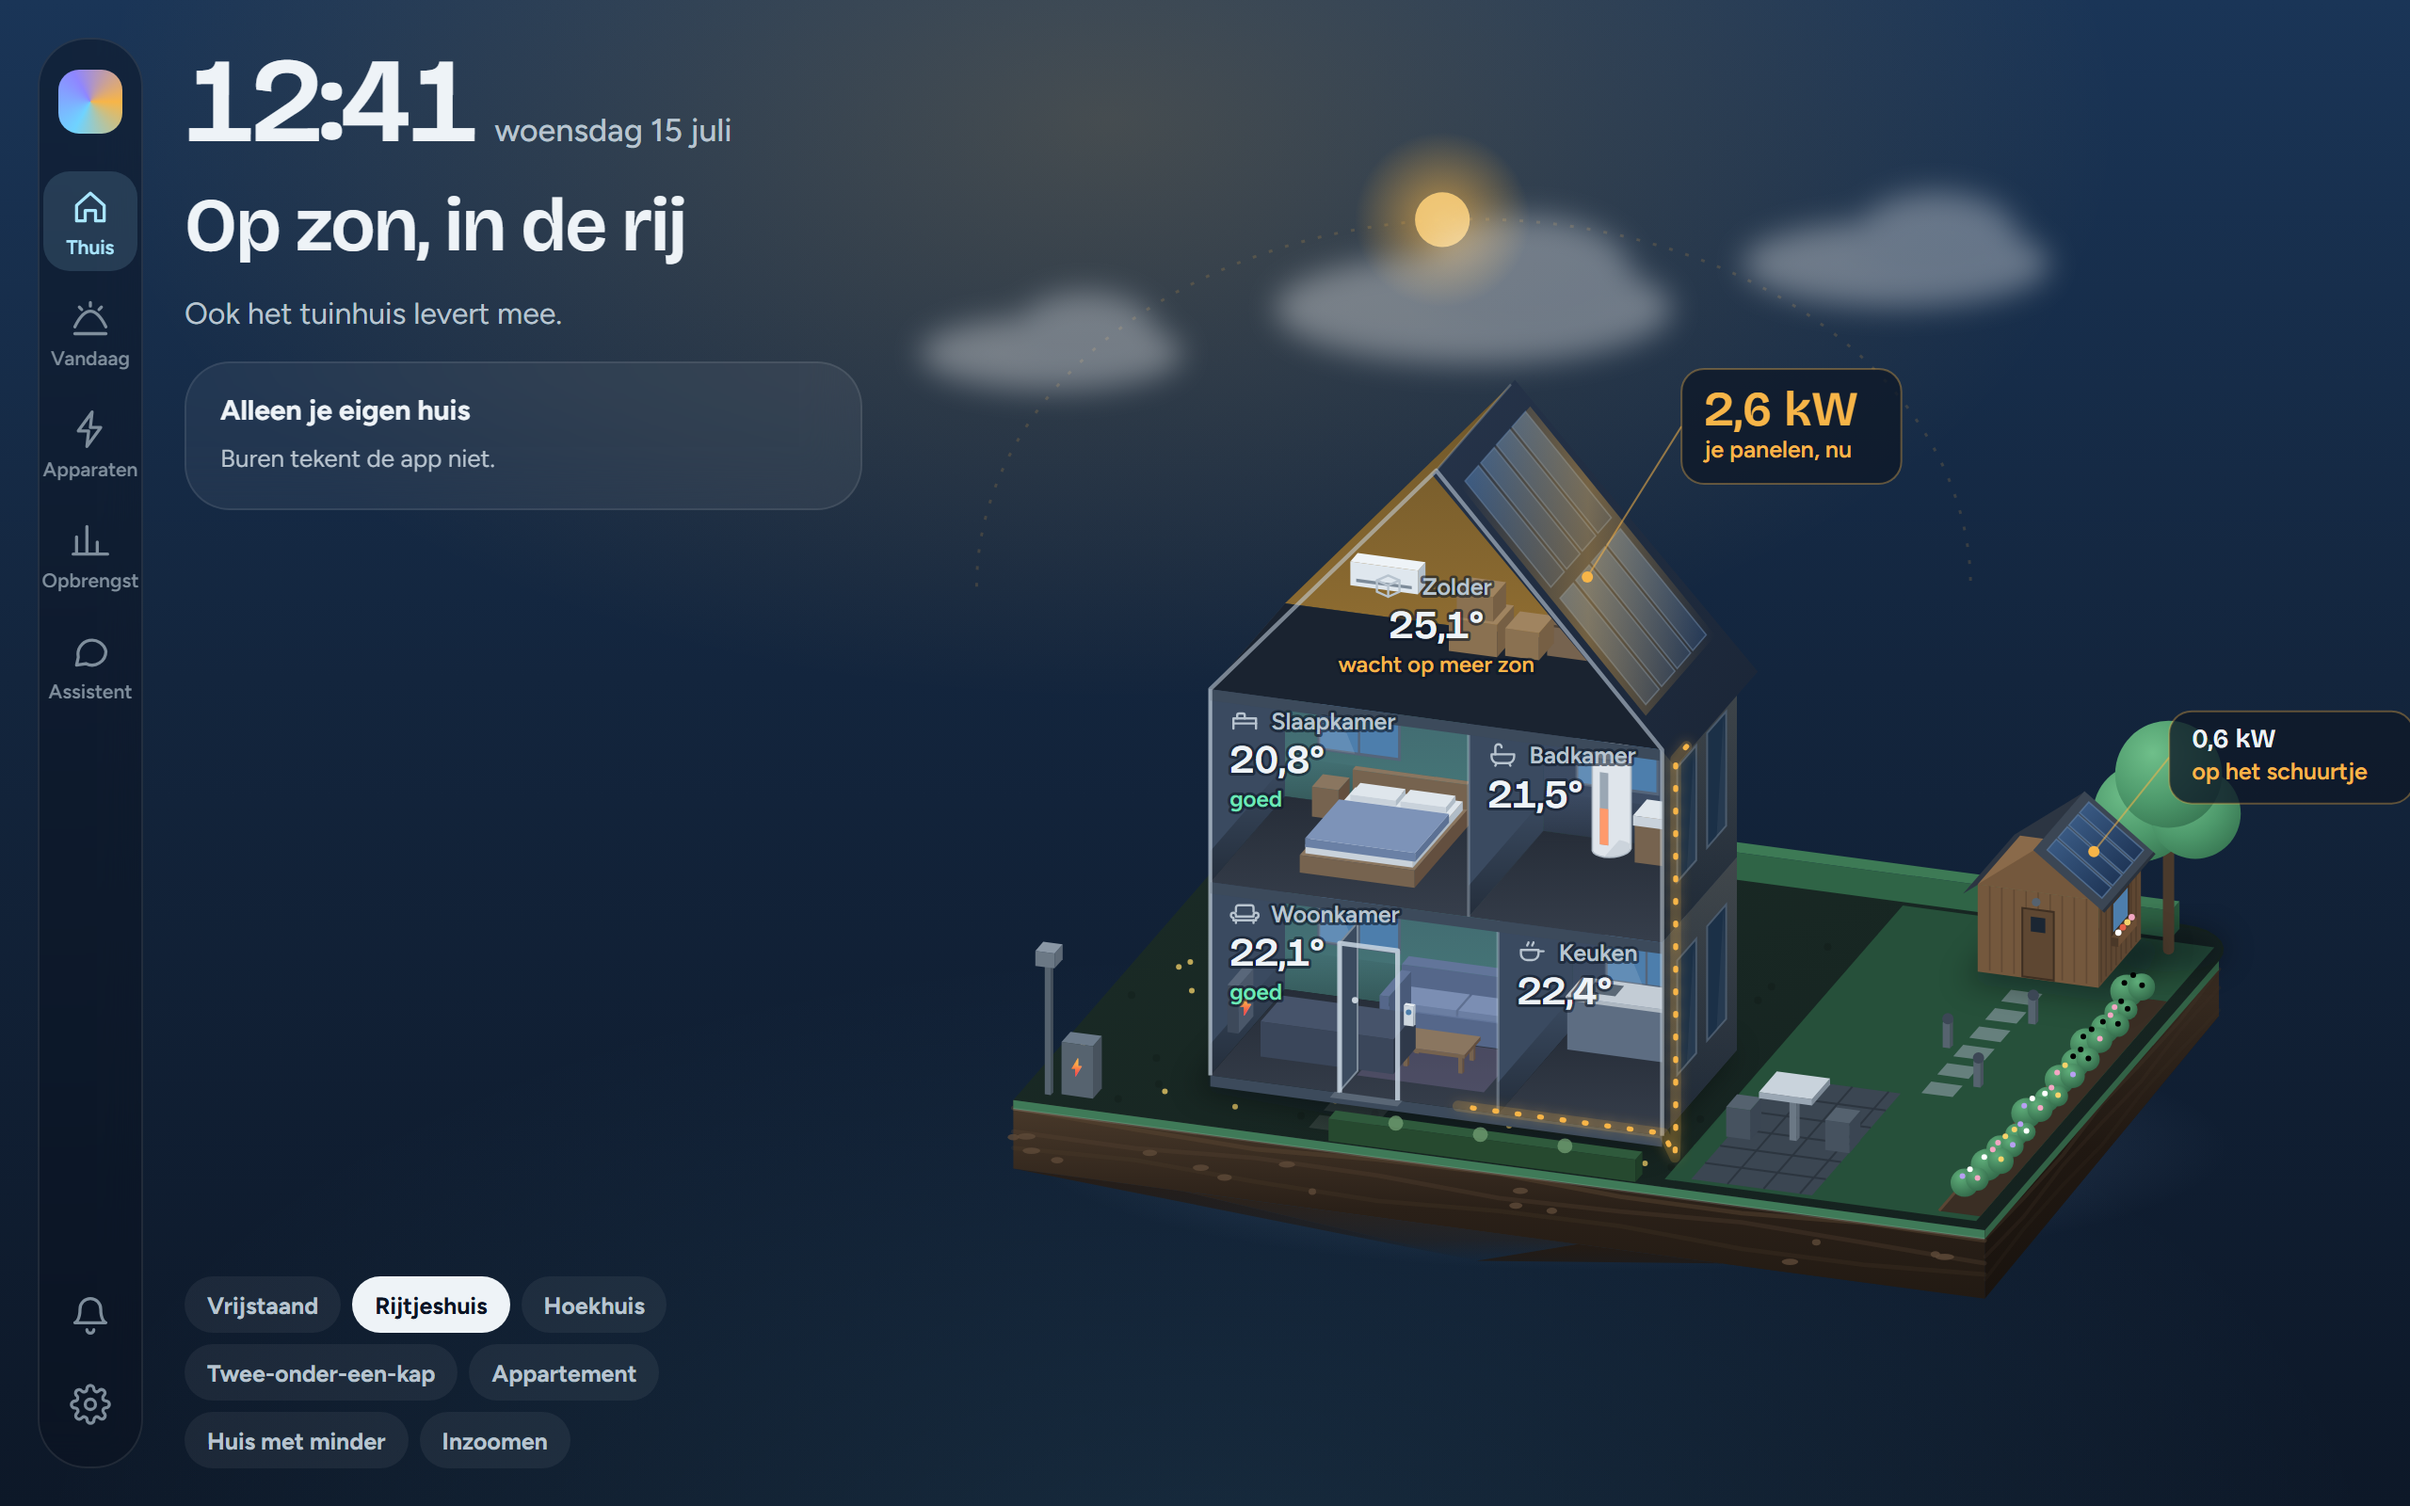
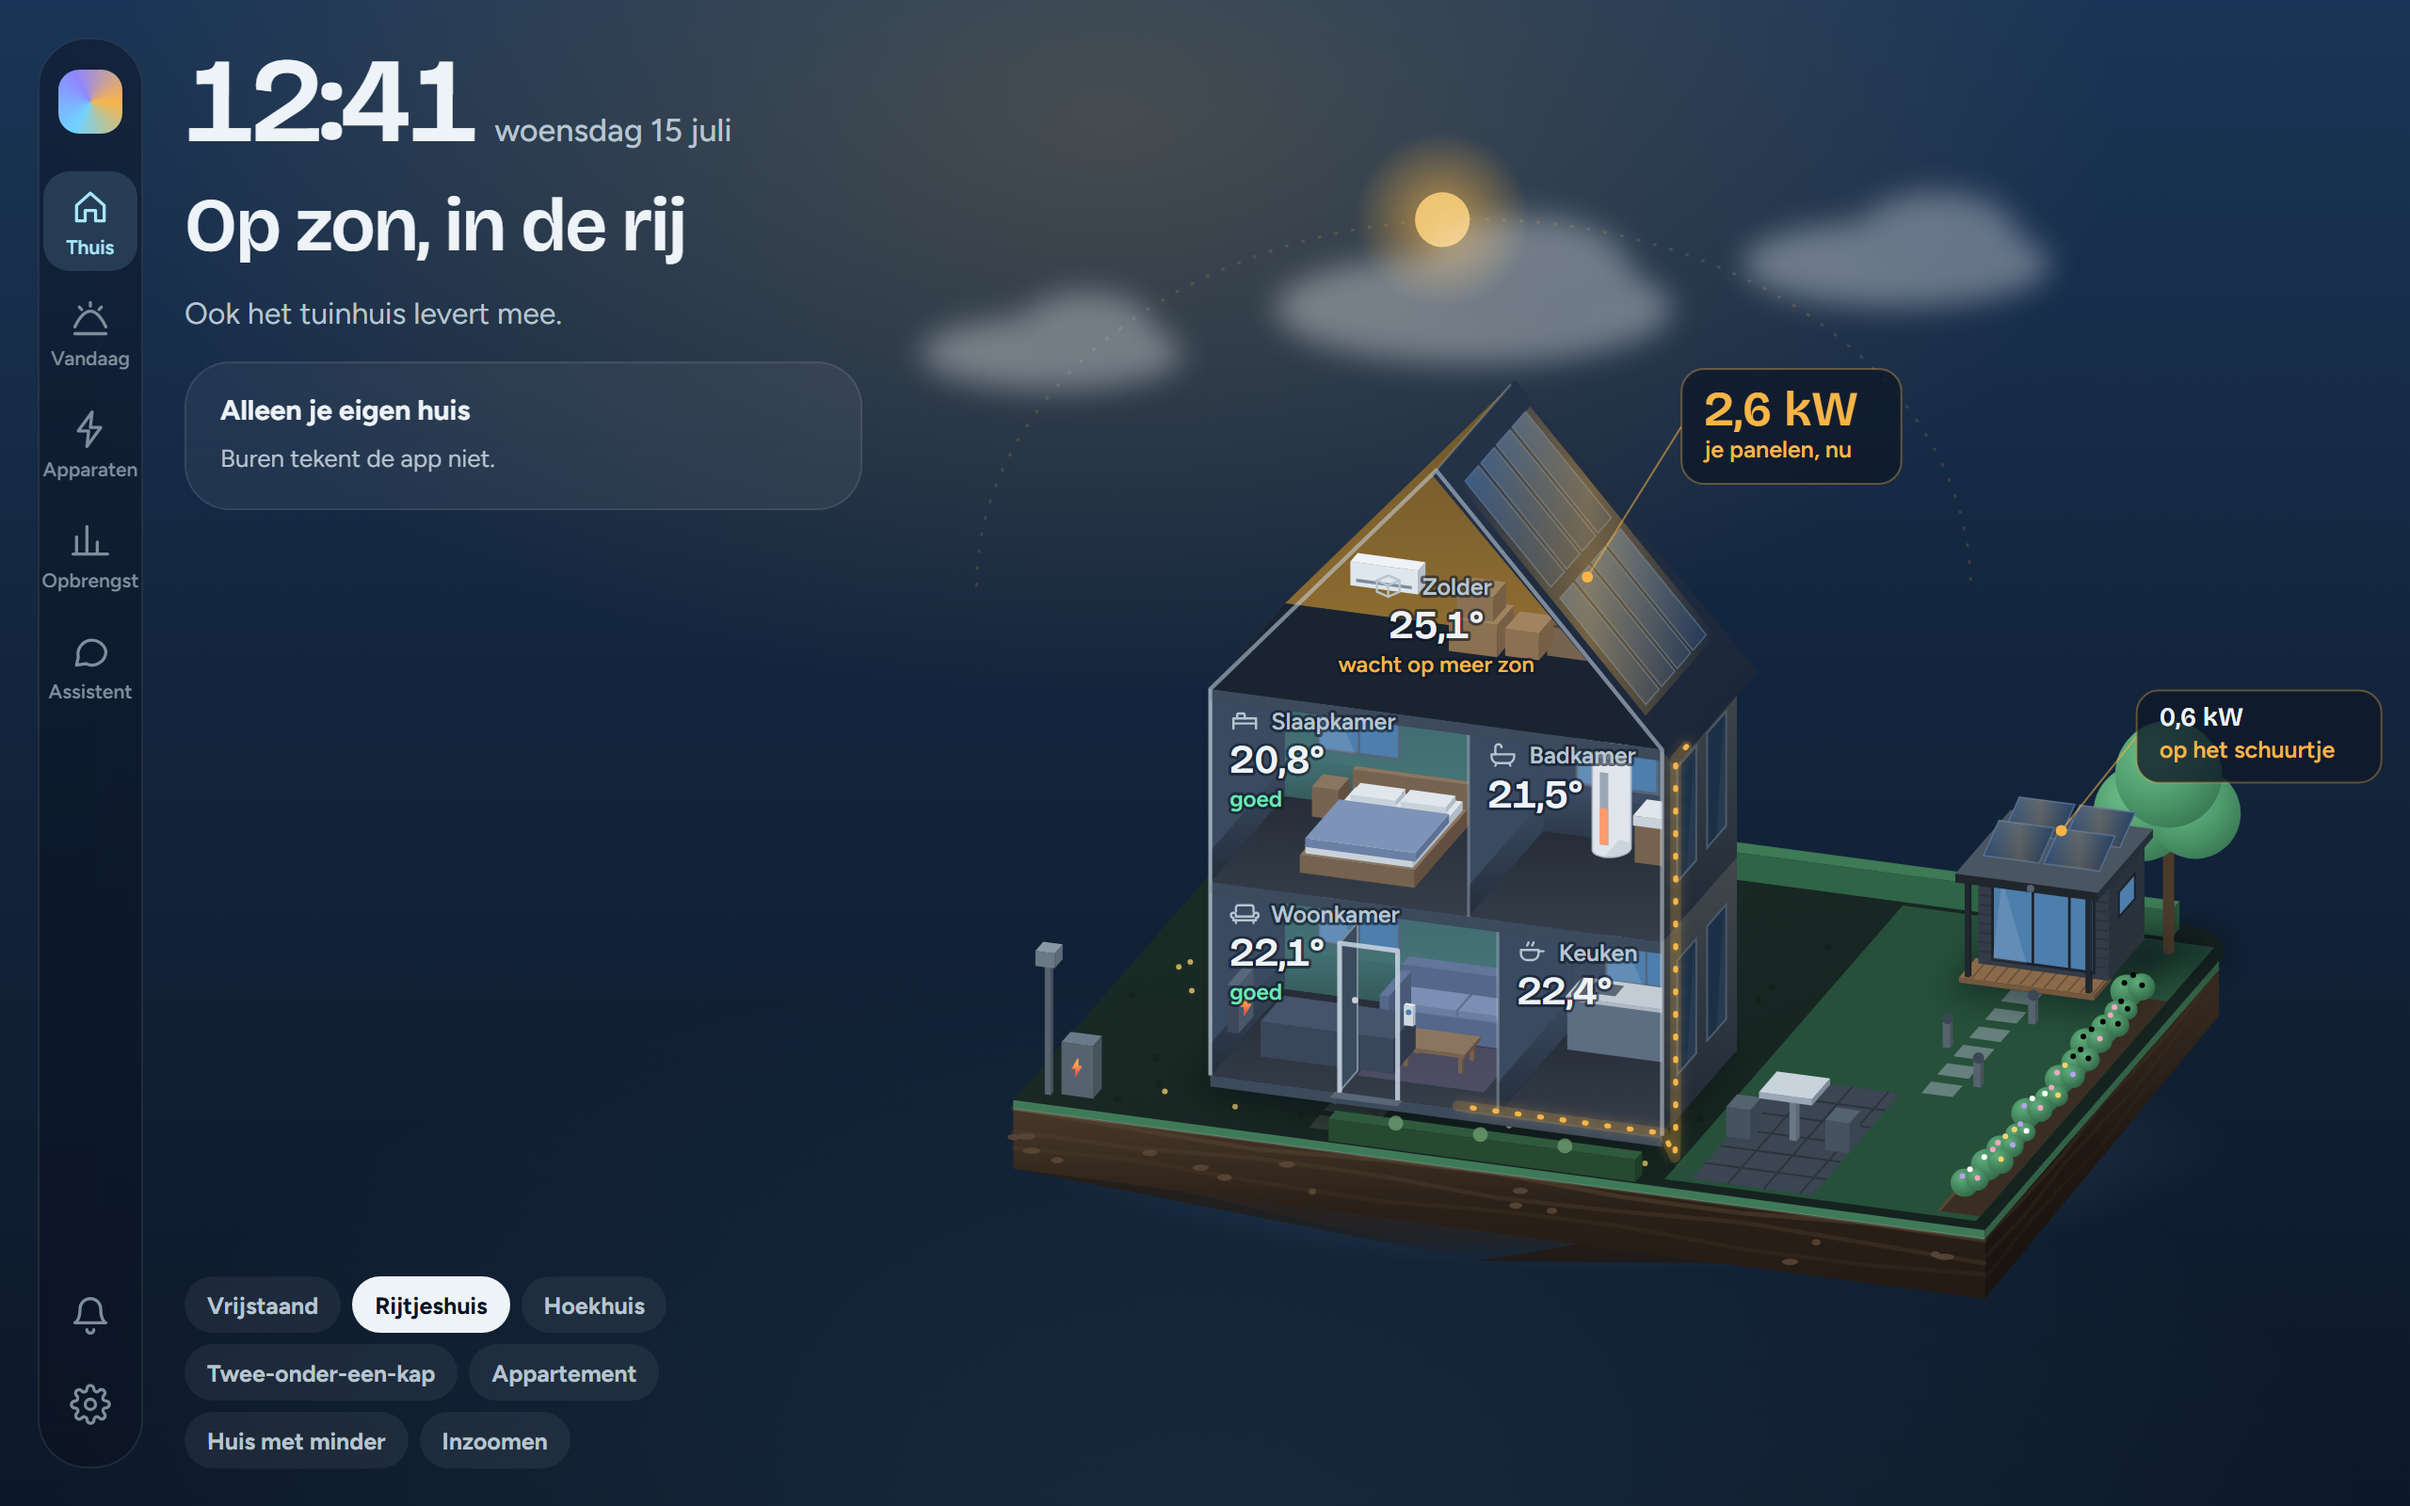
Versie 0.62.2: het tuinhuis met plat dak, overstek op twee palen, vlonder en glazen pui; een schuur, berging of shed blijft het houten schuurtje met puntdak (tuinhuisSoort uit de naam). Schetsen opnieuw gerenderd

Changed region(s): [[0.8125, 0.4688, 1.0, 0.6875]]

diff --git a/frontend/kit/huis.js b/frontend/kit/huis.js
@@ -2309,7 +2309,8 @@
         }]);
       }
       // Het tuinhuis achterin, met de deur naar het pad.
-      if (t.tuinhuis !== false) dingen.push([gy0, () => tuinhuis3(padX - 0.5, gy0 + 0.02, t)]);
+      // Een schuurtje met puntdak, of een tuinhuis met plat dak en overstek (24 oktober 2026).
+      if (t.tuinhuis !== false) dingen.push([gy0, () => (t.tuinhuisSoort === 'schuur' ? tuinhuis3(padX - 0.5, gy0 + 0.02, t) : tuinhuisPlat(padX - 0.55, gy0 + 0.02, t))]);
       dingen.sort((a, b) => a[0] - b[0]).forEach(([, teken]) => teken());
     }
     /** Een struik in de border: twee bollen, met bloemen of bladeren in het seizoen (huis 3.0). */
@@ -2334,6 +2335,61 @@
      * bloembak, en een lamp boven de deur. Panelen op het dakvlak, als die er
      * liggen.
      */
+    /**
+     * Het tuinhuis (24 oktober 2026): een strakke doos met een plat dak dat aan
+     * de voorkant uitsteekt als overstek, op twee palen, met een vlonder eronder,
+     * een glazen pui en een lamp onder het overstek. Panelen liggen op rekken op
+     * het dak. Het houten huisje met puntdak is het schuurtje (`tuinhuisSoort: 'schuur'`).
+     */
+    function tuinhuisPlat(tx, ty, t) {
+      const b = 1.08;
+      const d = 0.72;
+      const h = 0.8;
+      const dik = 0.07;
+      const over = 0.34;
+      const sneeuw = model.weer === 'sneeuw';
+      const aan = t.tuinhuisAan;
+      const lampAan = t.overstekAan || aan;
+      const gevel = licht ? ['#e9e3d8', '#d8d0c2', '#c4baa9'] : ['#3c4654', '#323b47', '#2a323c'];
+      const latten = licht ? '#bfb4a2' : '#262e38';
+      buiten.push(`<g filter="url(#${id}-zacht)" opacity="0.35">${poly([[tx - 0.06, ty, 0], [tx + b + 0.3, ty, 0], [tx + b + 0.3, ty + d + over + 0.2, 0], [tx - 0.06, ty + d + over + 0.2, 0]], 'fill="#02050a"')}</g>`);
+      // De vlonder onder het overstek.
+      buiten.push(doos(tx - 0.02, ty + d, 0, b + 0.04, over, 0.04, ['#8a6a4a', '#74583d', '#5e4732']));
+      for (let x = tx + 0.08; x < tx + b; x += 0.1) buiten.push(line([[x, ty + d + 0.01, 0.041], [x, ty + d + over - 0.01, 0.041]], 'stroke="#5e4732" stroke-width="0.8" stroke-opacity="0.8"'));
+      // Het huis zelf: donker (of licht) met liggende latten.
+      buiten.push(doos(tx, ty, 0, b, d, h, gevel));
+      for (let z = 0.1; z < h - 0.02; z += 0.075) {
+        buiten.push(line([[tx + 0.01, ty + d + 0.001, z], [tx + b - 0.01, ty + d + 0.001, z]], `stroke="${latten}" stroke-width="0.7" stroke-opacity="0.8"`));
+        buiten.push(line([[tx + b + 0.001, ty + 0.01, z], [tx + b + 0.001, ty + d - 0.01, z]], `stroke="${latten}" stroke-width="0.7" stroke-opacity="0.6"`));
+      }
+      // De glazen pui: een schuifdeur en een groot raam, met licht als er iemand is.
+      const glas = aan ? '#F4C27E' : nacht ? '#0f1a2a' : '#4d7eac';
+      const pui = [[tx + 0.12, ty + d + 0.002, 0.05], [tx + b - 0.12, ty + d + 0.002, 0.05], [tx + b - 0.12, ty + d + 0.002, h - 0.1], [tx + 0.12, ty + d + 0.002, h - 0.1]];
+      buiten.push(poly(pui, `fill="${glas}" stroke="#1c232c" stroke-width="1.4"`));
+      if (aan) buiten.push(`<g filter="url(#${id}-zacht)" opacity="0.55">${poly(pui, 'fill="#FFB765"')}</g>`);
+      if (!aan && !nacht) buiten.push(poly([pui[0], [tx + 0.4, ty + d + 0.002, 0.05], [tx + 0.2, ty + d + 0.002, h - 0.1]], 'fill="#ffffff" opacity="0.12"'));
+      for (const x of [tx + b * 0.42, tx + b * 0.7]) buiten.push(line([[x, ty + d + 0.003, 0.05], [x, ty + d + 0.003, h - 0.1]], 'stroke="#1c232c" stroke-width="1.4"'));
+      // Een smal raam in de zijkant.
+      const zij = [[tx + b + 0.002, ty + 0.2, 0.42], [tx + b + 0.002, ty + 0.52, 0.42], [tx + b + 0.002, ty + 0.52, 0.62], [tx + b + 0.002, ty + 0.2, 0.62]];
+      buiten.push(poly(zij, `fill="${glas}" stroke="#1c232c" stroke-width="1"`));
+      // De palen van het overstek, voor de pui.
+      for (const x of [tx + 0.02, tx + b - 0.06]) buiten.push(doos(x, ty + d + over - 0.06, 0.04, 0.04, 0.04, h - 0.04, ['#2a323c', '#20272f', '#1a2027']));
+      // Het platte dak, met het overstek naar voren; panelen of sneeuw erop.
+      buiten.push(doos(tx - 0.05, ty - 0.05, h, b + 0.1, d + over + 0.05, dik, [sneeuw ? '#eef3f8' : licht ? '#5b6672' : '#4a5562', '#1f262e', '#262e37']));
+      // De lamp onder het overstek, en zijn schijnsel op de vlonder.
+      const lamp = P(tx + b / 2, ty + d + over - 0.08, h - 0.01);
+      buiten.push(`<circle cx="${lamp[0]}" cy="${lamp[1]}" r="${(k * 0.03).toFixed(1)}" fill="${lampAan ? '#FFD39A' : '#55626f'}"/>`);
+      if (lampAan) {
+        const voet = P(tx + b / 2, ty + d + over / 2, 0.05);
+        buiten.push(`<ellipse cx="${voet[0]}" cy="${voet[1]}" rx="${(k * 0.55).toFixed(1)}" ry="${(k * 0.22).toFixed(1)}" fill="#FFD39A" opacity="0.32" filter="url(#${id}-zacht)"/>`);
+      }
+      if (t.tuinhuisPanelen && !sneeuw) {
+        plaatPanelen(tx + 0.04, ty, b - 0.08, d + 0.1, h + dik, Math.min(6, t.tuinhuisPanelen));
+        plek.panelenSchuur = [tx + b / 2, ty + d / 2, h + dik + 0.1];
+      }
+      plek.tuinhuis = [tx + b / 2, ty + d / 2, h + dik];
+    }
+    /** Het schuurtje: het houten huisje met puntdak (het tuinhuis van huis 3.0 tot 24 oktober 2026). */
     function tuinhuis3(tx, ty, t) {
       const b = 1.0;
       const d = 0.85;

diff --git a/frontend/src/huismodel.js b/frontend/src/huismodel.js
@@ -160,6 +160,8 @@
     const n = naam ?? '';
     return /tuinhuis|schuur|huisje|berging|shed/i.test(n) ? 'tuinhuis' : /border|bloem|perk|haag|flower|bed|hedge/i.test(n) ? 'border' : /gazon|gras|lawn/i.test(n) ? 'gazon' : /terras|zithoek|lounge|patio|terrace/i.test(n) ? 'terras' : /moestuin|groente|kas|vegetable|greenhouse/i.test(n) ? 'moestuin' : /vijver|water|pond/i.test(n) ? 'vijver' : /pad|tegel|path/i.test(n) ? 'pad' : /speel|schommel|trampoline|play|swing/i.test(n) ? 'speelplek' : /carport/i.test(n) ? 'carport' : /oprit|driveway/i.test(n) ? 'oprit' : null;
   }
+  /** Een schuurtje, geen tuinhuis: aan de naam (24 oktober 2026). */
+  const SCHUUR = /schuur|berging|shed/i;
   const heeftHuisje = (r) => (r.zones ?? []).some((z) => (z.soort ?? buitenZoneUitNaam(z.naam)) === 'tuinhuis');
   function soortBuiten(r) {
     if (r.buiten) return { ...r.buiten, tuinhuis: r.buiten.tuinhuis || ((r.buiten.soort === 'tuin' || r.buiten.soort === 'zijtuin') && heeftHuisje(r)) };
@@ -227,6 +229,8 @@
           id: r.id,
           naam: r.naam,
           tuinhuis: b.tuinhuis || huisjes.length > 0,
+          // Een schuur, berging of shed is het schuurtje met puntdak; anders het tuinhuis met plat dak (24 oktober 2026).
+          tuinhuisSoort: SCHUUR.test([huisjes[0]?.naam, ...(r.zones ?? []).filter((z) => (z.soort ?? buitenZoneUitNaam(z.naam)) === 'tuinhuis').map((z) => z.naam)].filter(Boolean).join(' ')) ? 'schuur' : 'tuinhuis',
           // Is het tuinhuis een eigen ruimte, dan is het huisje zelf aan te tikken (besluit 166).
           tuinhuisId: huisjes[0]?.id ?? null,
           tuinhuisNaam: huisjes[0]?.naam ?? null,
@@ -239,7 +243,7 @@
       }
     }
     // Alleen een tuinhuis in Home Assistant: dan is er een tuin om hem in te zetten.
-    if (!tuin && huisjes.length) tuin = { id: null, naam: global.t('huis.buiten.tuin'), tuinhuis: true, tuinhuisId: huisjes[0].id, tuinhuisNaam: huisjes[0].naam, tuinhuisAan: huisjeLampen.some((a) => a.aan), overstekAan: false, lampen: [], zonnescherm: null };
+    if (!tuin && huisjes.length) tuin = { id: null, naam: global.t('huis.buiten.tuin'), tuinhuis: true, tuinhuisSoort: SCHUUR.test(huisjes[0].naam ?? '') ? 'schuur' : 'tuinhuis', tuinhuisId: huisjes[0].id, tuinhuisNaam: huisjes[0].naam, tuinhuisAan: huisjeLampen.some((a) => a.aan), overstekAan: false, lampen: [], zonnescherm: null };
     if (rond) {
       const leeg = (naam) => ({ id: null, naam, lampAan: false });
       oprit = rond.oprit ? (oprit ?? { id: null, naam: global.t('huis.buiten.oprit'), auto: null, camera: null }) : null;

diff --git a/backend/src/version.ts b/backend/src/version.ts
@@ -9,7 +9,7 @@
  * krijgt in git een markering `v<nummer>`.
  */
 
-export const VERSIE = '0.62.1';
+export const VERSIE = '0.62.2';
 
 export interface Nieuw {
   readonly versie: string;
@@ -44,6 +44,18 @@ export const TERUGKIJKEN = 10;
 
 /** De nieuwste versie eerst. Per versie kort en voor de bewoner, het belangrijkste eerst. */
 export const NIEUW: readonly Nieuw[] = [
+  {
+    versie: '0.62.2',
+    datum: '2026-10-24',
+    beter: [
+      'Het tuinhuis heeft een plat dak met een overstek op twee palen, een vlonder en een glazen pui; heet het een schuur of berging, dan blijft het het houten schuurtje met puntdak',
+    ],
+    en: {
+      beter: [
+        'The garden house has a flat roof with an overhang on two posts, a deck and a glass front; when it is called a shed, it stays the wooden shed with a pitched roof',
+      ],
+    },
+  },
   {
     versie: '0.62.1',
     datum: '2026-10-24',

diff --git a/design/app2/Wand-Huis-3.html b/design/app2/Wand-Huis-3.html
@@ -121,7 +121,7 @@
       model: {
         woning: 'hoek', tijd: 'avond', zon: { stand: 0.86, aandeel: 0.2, panelen: 10 },
         etages: [{ naam: 'Begane grond', kamers: beneden.map((k) => ({ ...k, apparaten: k.naam === 'Woonkamer' ? [{ soort: 'lamp', aan: true }, { soort: 'bank' }] : k.apparaten, stand: 'goed', zin: 'goed' })) }, { naam: 'Eerste', kamers: boven }, zolder],
-        voordeur: {}, net: true, tuin: { tuinhuis: true, jacuzzi: { temp: 37, stand: 'warmt', bubbels: true }, lampen: [{ aan: true }] }, terras: { lampAan: true },
+        voordeur: {}, net: true, tuin: { tuinhuis: true, tuinhuisSoort: 'schuur', jacuzzi: { temp: 37, stand: 'warmt', bubbels: true }, lampen: [{ aan: true }] }, terras: { lampAan: true },
         labels: [],
       },
     },

diff --git a/DECISIONS.md b/DECISIONS.md
@@ -8674,6 +8674,10 @@ eruit. De bewoner verwachtte de kaarten uit de schets (`Wand-Thuis-3.html`).
   kiezen, alleen als het huis er een heeft.
 - **Het kompas** staat niet op Thuis (24 oktober 2026, 0.62.1): het hoort bij
   Zonnepanelen, bij de ligging.
+- **Het tuinhuis** (0.62.2) heeft een plat dak met een overstek op twee palen,
+  een vlonder en een glazen pui, met de lamp onder het overstek. Heet het een
+  schuur, berging of shed, dan is het het houten schuurtje met puntdak
+  (`tuinhuisSoort`).
 - **Versie 0.62.0.**
 
 *Wat afviel:* de tegel ook op de telefoon (daar staan de kaarten onder elkaar,

diff --git a/addon/CHANGELOG.md b/addon/CHANGELOG.md
@@ -1,5 +1,19 @@
 # Wat is er nieuw · What is new
 
+## 0.62.2
+
+*24 oktober 2026*
+
+**Beter**
+
+- Het tuinhuis heeft een plat dak met een overstek op twee palen, een vlonder en een glazen pui; heet het een schuur of berging, dan blijft het het houten schuurtje met puntdak
+
+*English*
+
+**Improved**
+
+- The garden house has a flat roof with an overhang on two posts, a deck and a glass front; when it is called a shed, it stays the wooden shed with a pitched roof
+
 ## 0.62.1
 
 *24 oktober 2026*
